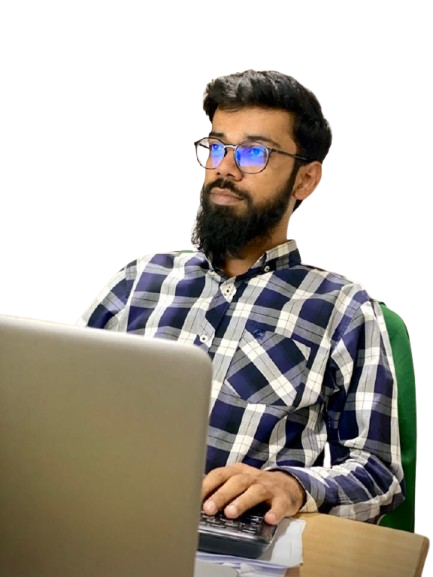
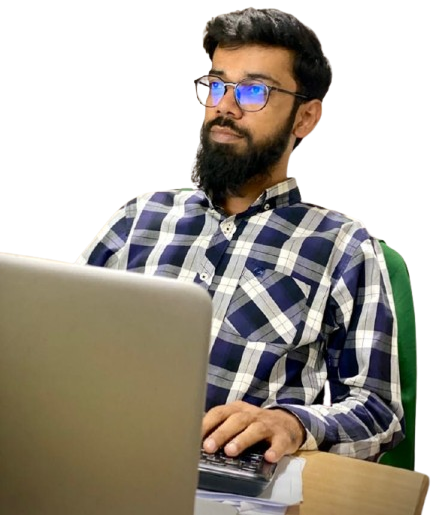
jury

diff --git a/index.html b/index.html
@@ -3030,7 +3030,7 @@
 								<div class="team-box">
 									<div class="team-img overflow-hidden position-relative text-center">
 										<img class="text-center"
-											src="assets/images/jury/sirhassan-removebg-preview.png"
+											src="assets/images/jury/sir hassan.png"
 											alt>
 										<div class="logoContainer">
 											<img src="assets/images/aptech_metro_star_gate_logo.jpeg"
@@ -3079,7 +3079,7 @@
 								<div class="team-box">
 									<div class="team-img overflow-hidden position-relative text-center">
 										<img class="text-center"
-											src="assets/images/jury/sir_shabbirr-removebg-preview.png"
+											src="assets/images/jury/miss zeenat.png"
 											alt>
 										<div class="logoContainer">
 											<img src="assets/images/aptech_logo.png"
@@ -3103,7 +3103,7 @@
 								<div class="team-box">
 									<div class="team-img overflow-hidden position-relative text-center">
 										<img class="text-center"
-											src="assets/images/jury/sir_shabbirr-removebg-preview.png"
+											src="assets/images/jury/faisal.png"
 											alt>
 										<div class="logoContainer">
 											<img src="assets/images/logo-innovador.png"
@@ -3129,7 +3129,7 @@
 								<div class="team-box">
 									<div class="team-img overflow-hidden position-relative text-center">
 										<img class="text-center"
-											src="assets/images/jury/sir_shabbirr-removebg-preview.png"
+											src="assets/images/jury/daniyal.png"
 											alt>
 										<div class="logoContainer">
 											<img src="assets/images/logo-innovador.png"
